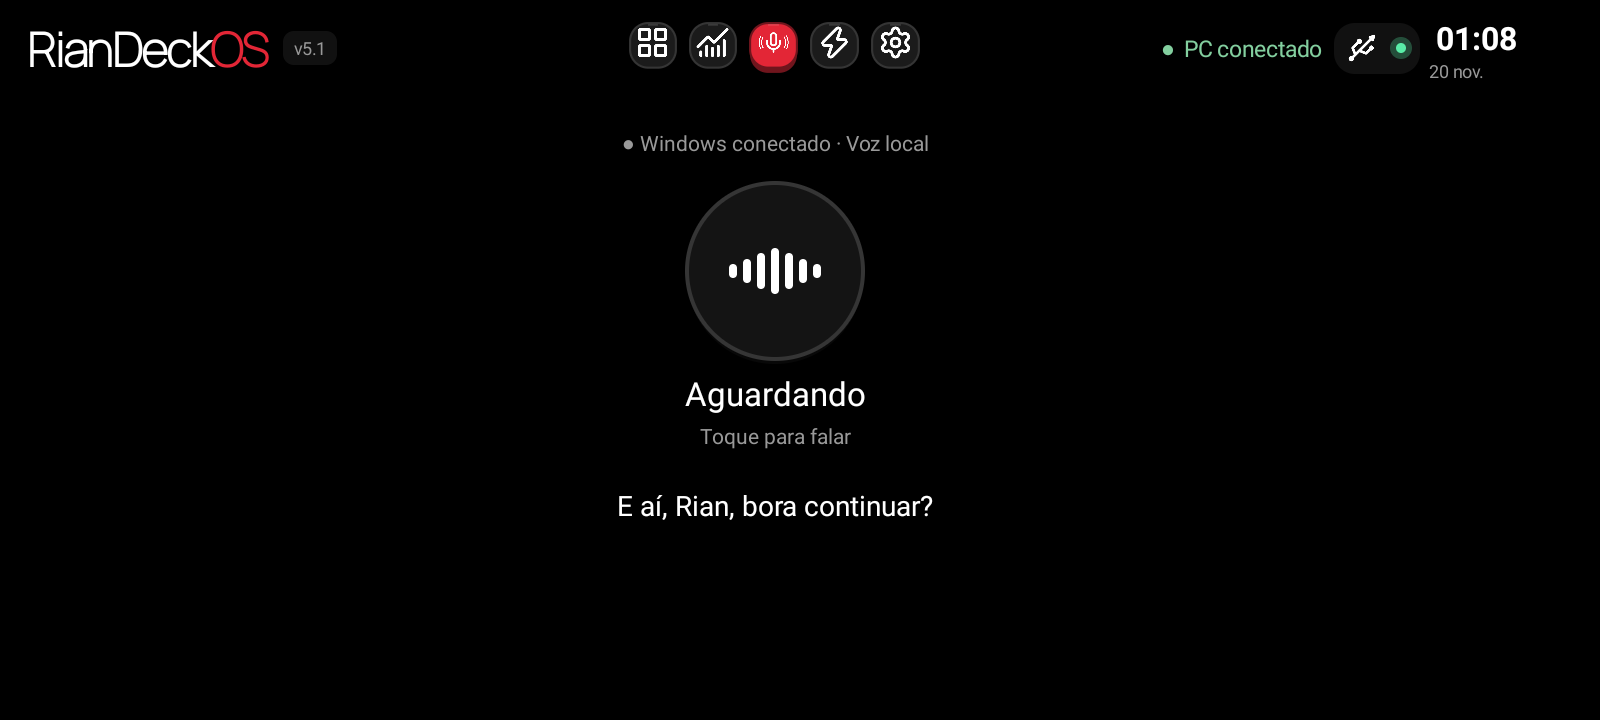
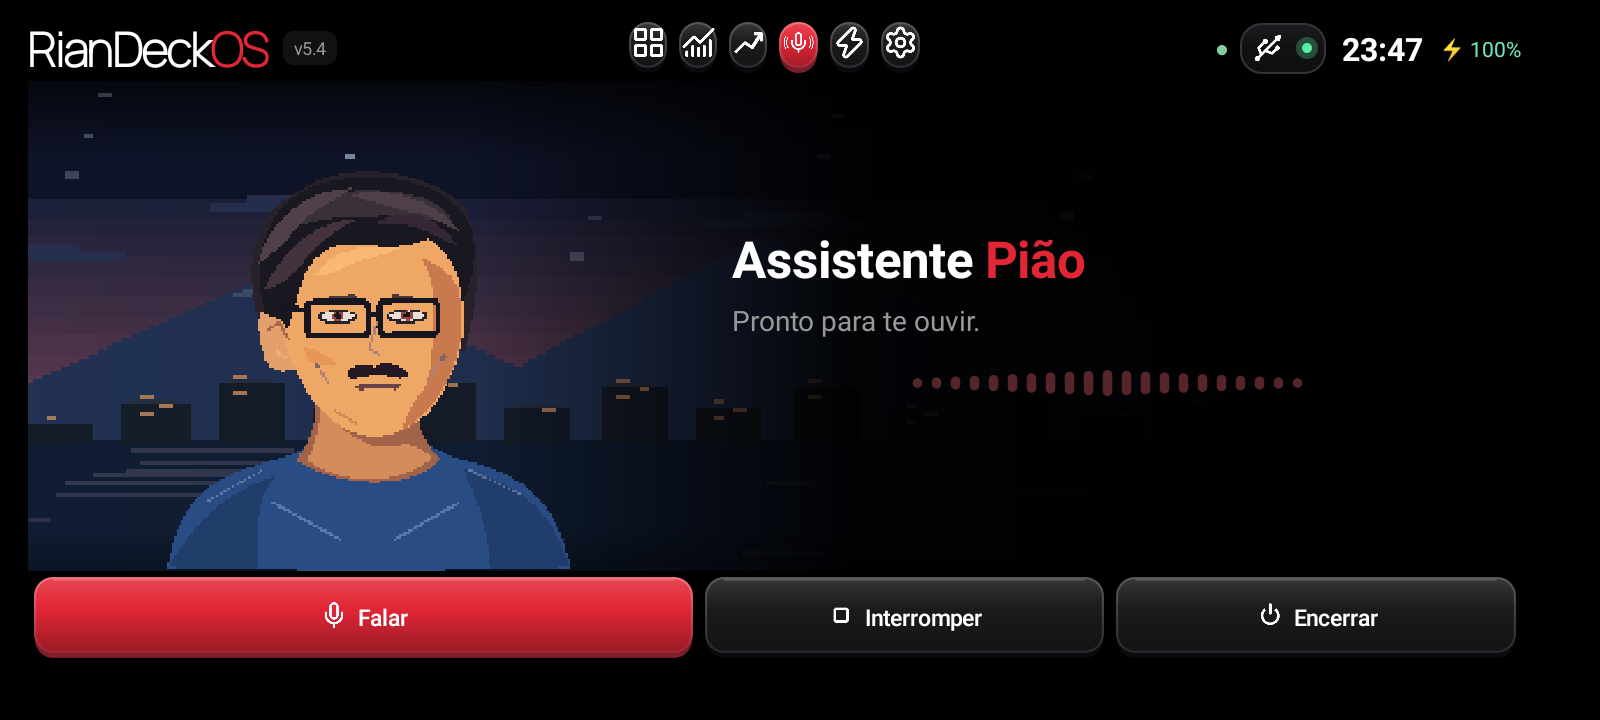
Atualizar documentação e galeria do RianDeckOS 5.4

diff --git a/docs/ARQUITETURA.md b/docs/ARQUITETURA.md
@@ -10,12 +10,14 @@ flowchart LR
   Agent -->|"Pergunta e contexto curto · loopback 11434"| Ollama["Ollama + Qwen3"]
   Agent -->|"Síntese pt-BR"| Piper["Piper"]
   Agent -->|"Análise com confirmação"| Codex["Codex CLI"]
+  Agent -->|"Notícias, miniaturas e cotações"| Trends["Feeds editoriais, Yahoo Finance e CoinGecko"]
+  Agent -->|"OAuth somente leitura"| Google["Gmail, Agenda e Tasks"]
   Editor["Studio no navegador"] <-->|"Credencial de editor"| Agent
 ~~~
 
 | Bloco | Implementação e comportamento |
 | --- | --- |
-| Android | `DeckActivity.java` monta as cinco abas. `VoiceDeck.java` controla a captura manual e `DeckVoiceSocket.java` transmite PCM. `MemeStatus.java` controla GIFs e estados. |
+| Android | `DeckActivity.java` monta as seis abas. `VoiceDeck.java` controla a captura manual, e `DeckVoiceSocket.java` atende aos fluxos de voz e Trends. `MemeStatus.java` controla GIFs e estados. |
 | USB e início | `Connect.ps1` instala e abre o painel. O agente verifica e recupera a porta 48627 no ADB. `DeckAutostart` registra o executável no HKCU ao ativar a opção de login. |
 | Agente | `Program.cs` limita o serviço a 127.0.0.1. As rotas do Deck validam a chave pareada. O Studio usa credencial própria. O catálogo do agente define quais ações podem ser executadas. |
 | Studio e automações | `DeckStudio.cs` e `Editor.html` mantêm páginas, perfis, favoritos de macros e histórico. O perfil automático pode mudar conforme o processo em primeiro plano. |
@@ -24,6 +26,8 @@ flowchart LR
 | Voz | Após o segundo toque, `LocalVoiceSession` recorta e encaminha áudio para Whisper. `VoiceIntent.cs` classifica os atalhos de voz sem usar o modelo de conversa. Qwen responde perguntas gerais. Piper fala via saída padrão do Windows ou mídia do Android, conforme a preferência. |
 | Codex | O CLI usa o login oficial. A análise precisa de caminho de repositório autorizado, exige confirmação e roda em sandbox somente leitura. |
 | Clima e versículo | Open-Meteo consulta a cidade escolhida no Android. O agente consulta a fonte de versículos quando disponível. |
+| Trends | `TrendsService.cs` mantém o cache no Windows. `TrendsScreen.java` recebe as notícias e cotações via USB e desenha os gráficos em Canvas. |
+| Google | `GoogleRead.cs` conecta cada conta via OAuth com escopos de leitura e protege a autorização persistente com a conta do Windows. |
 
 ## Contratos do agente
 
@@ -37,6 +41,8 @@ flowchart LR
 | `GET /v1/startup` e `POST /v1/startup?enabled=true` | Estado e ajuste da inicialização |
 | `GET /editor` e `/studio/config` | Studio e configuração de perfis |
 | `WS /v1/assistant/realtime` | Voz local. O caminho histórico usa realtime, o processamento é local. |
+| `WS /v1/trends/stream` | Snapshots das notícias e dos indicadores enquanto a aba está aberta |
+| `GET /v1/trends/image/{id}` e `POST /v1/trends/news/{id}` | Miniatura editorial e abertura da matéria no navegador padrão do Windows |
 
 O WebSocket recebe a configuração, depois `start_capture`, PCM de 24 kHz mono e `submit_capture`. A alternativa `pc_input` seleciona a entrada padrão Windows apenas no turno. A resposta publica legenda e estado. Se o Android for escolhido como saída, recebe PCM binário. A saída padrão é a do Windows.
 

diff --git a/docs/ASSISTENTE-INTERFACE.md b/docs/ASSISTENTE-INTERFACE.md
@@ -1,6 +1,6 @@
 # Interface minimalista do Assistente
 
-A aba usa um desenho 2D original, montado em camadas no Canvas nativo Android. O fundo é preto e o painel preserva o cabeçalho comum. A conversa escrita não ocupa espaço na tela principal.
+A aba usa um avatar em pixel art desenhado por camadas no Canvas nativo Android. A paisagem escurece na área das legendas, abaixo do cabeçalho comum.
 
 - **Falar** abre a sessão com a entrada padrão do Windows. Durante a escuta, toque novamente para enviar.
 - **Interromper** descarta a captura ou para o processamento e a resposta em andamento. Se a sessão de voz estiver ociosa e existir uma tarefa ativa, solicita o cancelamento dessa tarefa.
@@ -12,7 +12,7 @@ A aba usa um desenho 2D original, montado em camadas no Canvas nativo Android. O
 | android/VoiceDeck.java | Interface dividida, três botões, estado real, forma de onda e ligação com a persona. |
 | agent/RealtimeDeck.cs | Envelope de volume da entrada e da saída Windows e cancelamento do turno existente. |
 
-O desenho atualiza a até 20 quadros por segundo e para quando a aba está oculta ou o app entra em segundo plano. A boca reage ao envelope RMS do PCM usado na reprodução Windows, com suavização. Ela não resolve fonemas ou visemas e pode apresentar atraso pelo dispositivo de áudio, pelo transporte e pela renderização. A tarefa executada e o estado de voz continuam vindo do agente.
+O desenho reduz a cadência em repouso com o perfil de economia ativo e pausa quando a aba está oculta ou o app entra em segundo plano. A boca acompanha aproximadamente o volume da reprodução do Windows. A tarefa executada e o estado de voz vêm do agente.
 
 ## Atividades do Assistente Pião
 
@@ -22,7 +22,7 @@ O avatar usa um desenho articulado em um bitmap reutilizado de 216 × 180 pixels
 
 A boca usa a amplitude da saída de áudio enviada pelo Windows. A correspondência com fonemas é aproximada. Os movimentos são desenhados em tempo real com o mesmo rosto e a mesma base de camiseta azul.
 
-A cena é interrompida ao escutar, processar, responder ou executar uma tarefa. A animação permanece em Canvas e pausa quando a aba está oculta. A legenda Entendi mostra a última transcrição e é limpa antes de gravar outra.
+A cena é interrompida ao escutar, processar, responder ou executar uma tarefa. A legenda **Entendi** mostra a última transcrição, e **Pião** mostra a resposta. Toque na resposta para abrir o texto completo.
 
 ### Validação do avatar em pixel art
 

diff --git a/README.md b/README.md
@@ -1,6 +1,6 @@
 # RianDeckOS 5.4
 
-Painel Android nativo para controlar um notebook Windows por USB. Reúne atalhos, mídia, monitoramento, perfis, automações e um assistente de voz local em português brasileiro. A instalação de referência usa um Moto G20, Android 11 e tela em paisagem de 1600 × 720.
+Painel Android nativo para controlar um notebook Windows por USB. Reúne atalhos, mídia, monitoramento, notícias, cotações, perfis, automações e um assistente de voz local em português brasileiro. A instalação de referência usa um Moto G20, Android 11 e tela em paisagem de 1600 × 720.
 
 ![Painel Controle](docs/prints/controle.png)
 
@@ -15,6 +15,7 @@ Painel Android nativo para controlar um notebook Windows por USB. Reúne atalhos
 | Entender o avatar em pixel art | [Interface do Assistente](docs/ASSISTENTE-INTERFACE.md) |
 | Consultar notícias e indicadores | [Trends e fontes de dados](docs/TRENDS.md) |
 | Identificar recursos gráficos | [Créditos](android/assets/CREDITOS.txt) |
+| Consultar licenças dos cenários do Trends | [Créditos do Trends](ASSET_CREDITS.md) |
 
 O APK Java fica em `android/`. O serviço ASP.NET, o Studio e o assistente ficam em `agent/`. Gere o APK em cada instalação para que o pareamento corresponda ao agente usado pelo telefone.
 

diff --git a/docs/PRINTS.md b/docs/PRINTS.md
@@ -1,6 +1,6 @@
 # Prints do RianDeckOS
 
-Capturas do APK em paisagem no Moto G20. As leituras de monitoramento representam o instante da captura. Cidade, saudação personalizada e registro local de automação foram ocultados.
+Capturas do RianDeckOS 5.4 em paisagem no Moto G20. As leituras de monitoramento, notícias e cotações representam o instante da captura. Dados pessoais foram ocultados.
 
 ## Controle
 
@@ -10,9 +10,13 @@ Capturas do APK em paisagem no Moto G20. As leituras de monitoramento representa
 
 ![Dados do Windows e GIFs ao fundo](prints/monitoramento.png)
 
-## Assistente
+## Trends
 
-![Assistente de voz com botão circular](prints/assistente.png)
+![Quatro notícias com fotos editoriais e quatro gráficos com cenários pixel art](prints/trends.png)
+
+## Assistente Pião
+
+![Assistente em pixel art com paisagem e controles de voz](prints/assistente.png)
 
 ## Automações
 
